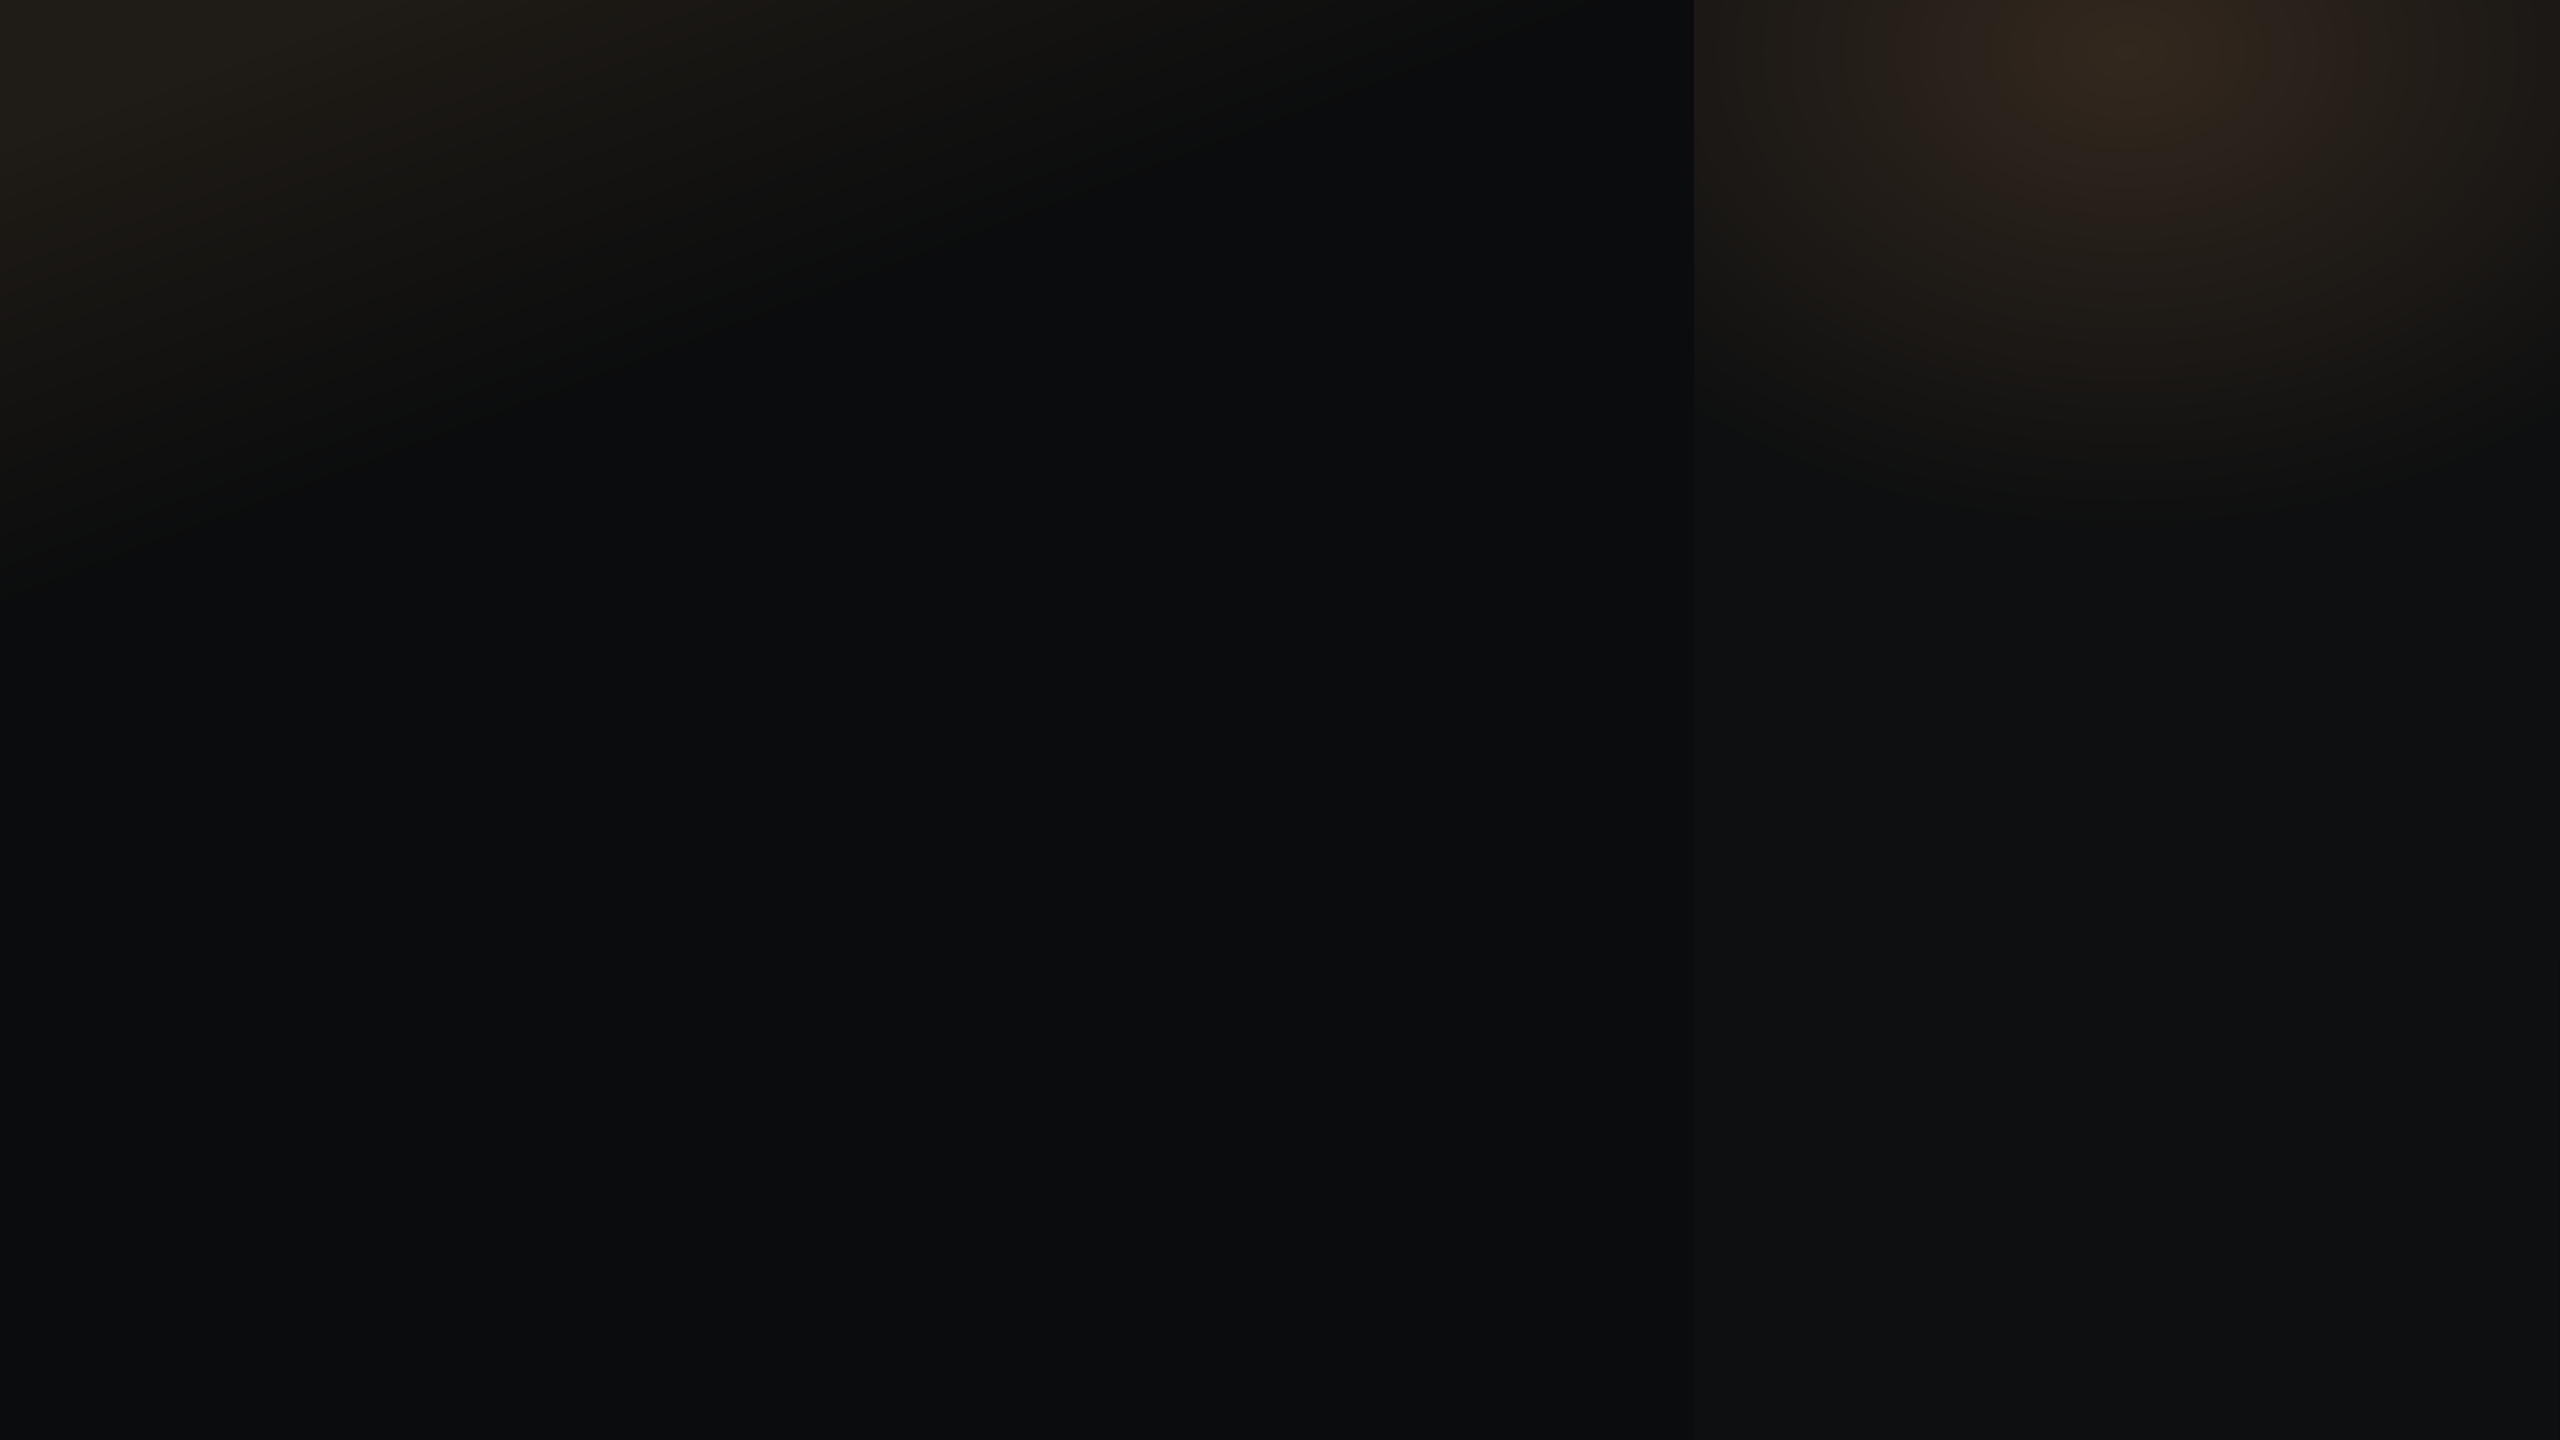
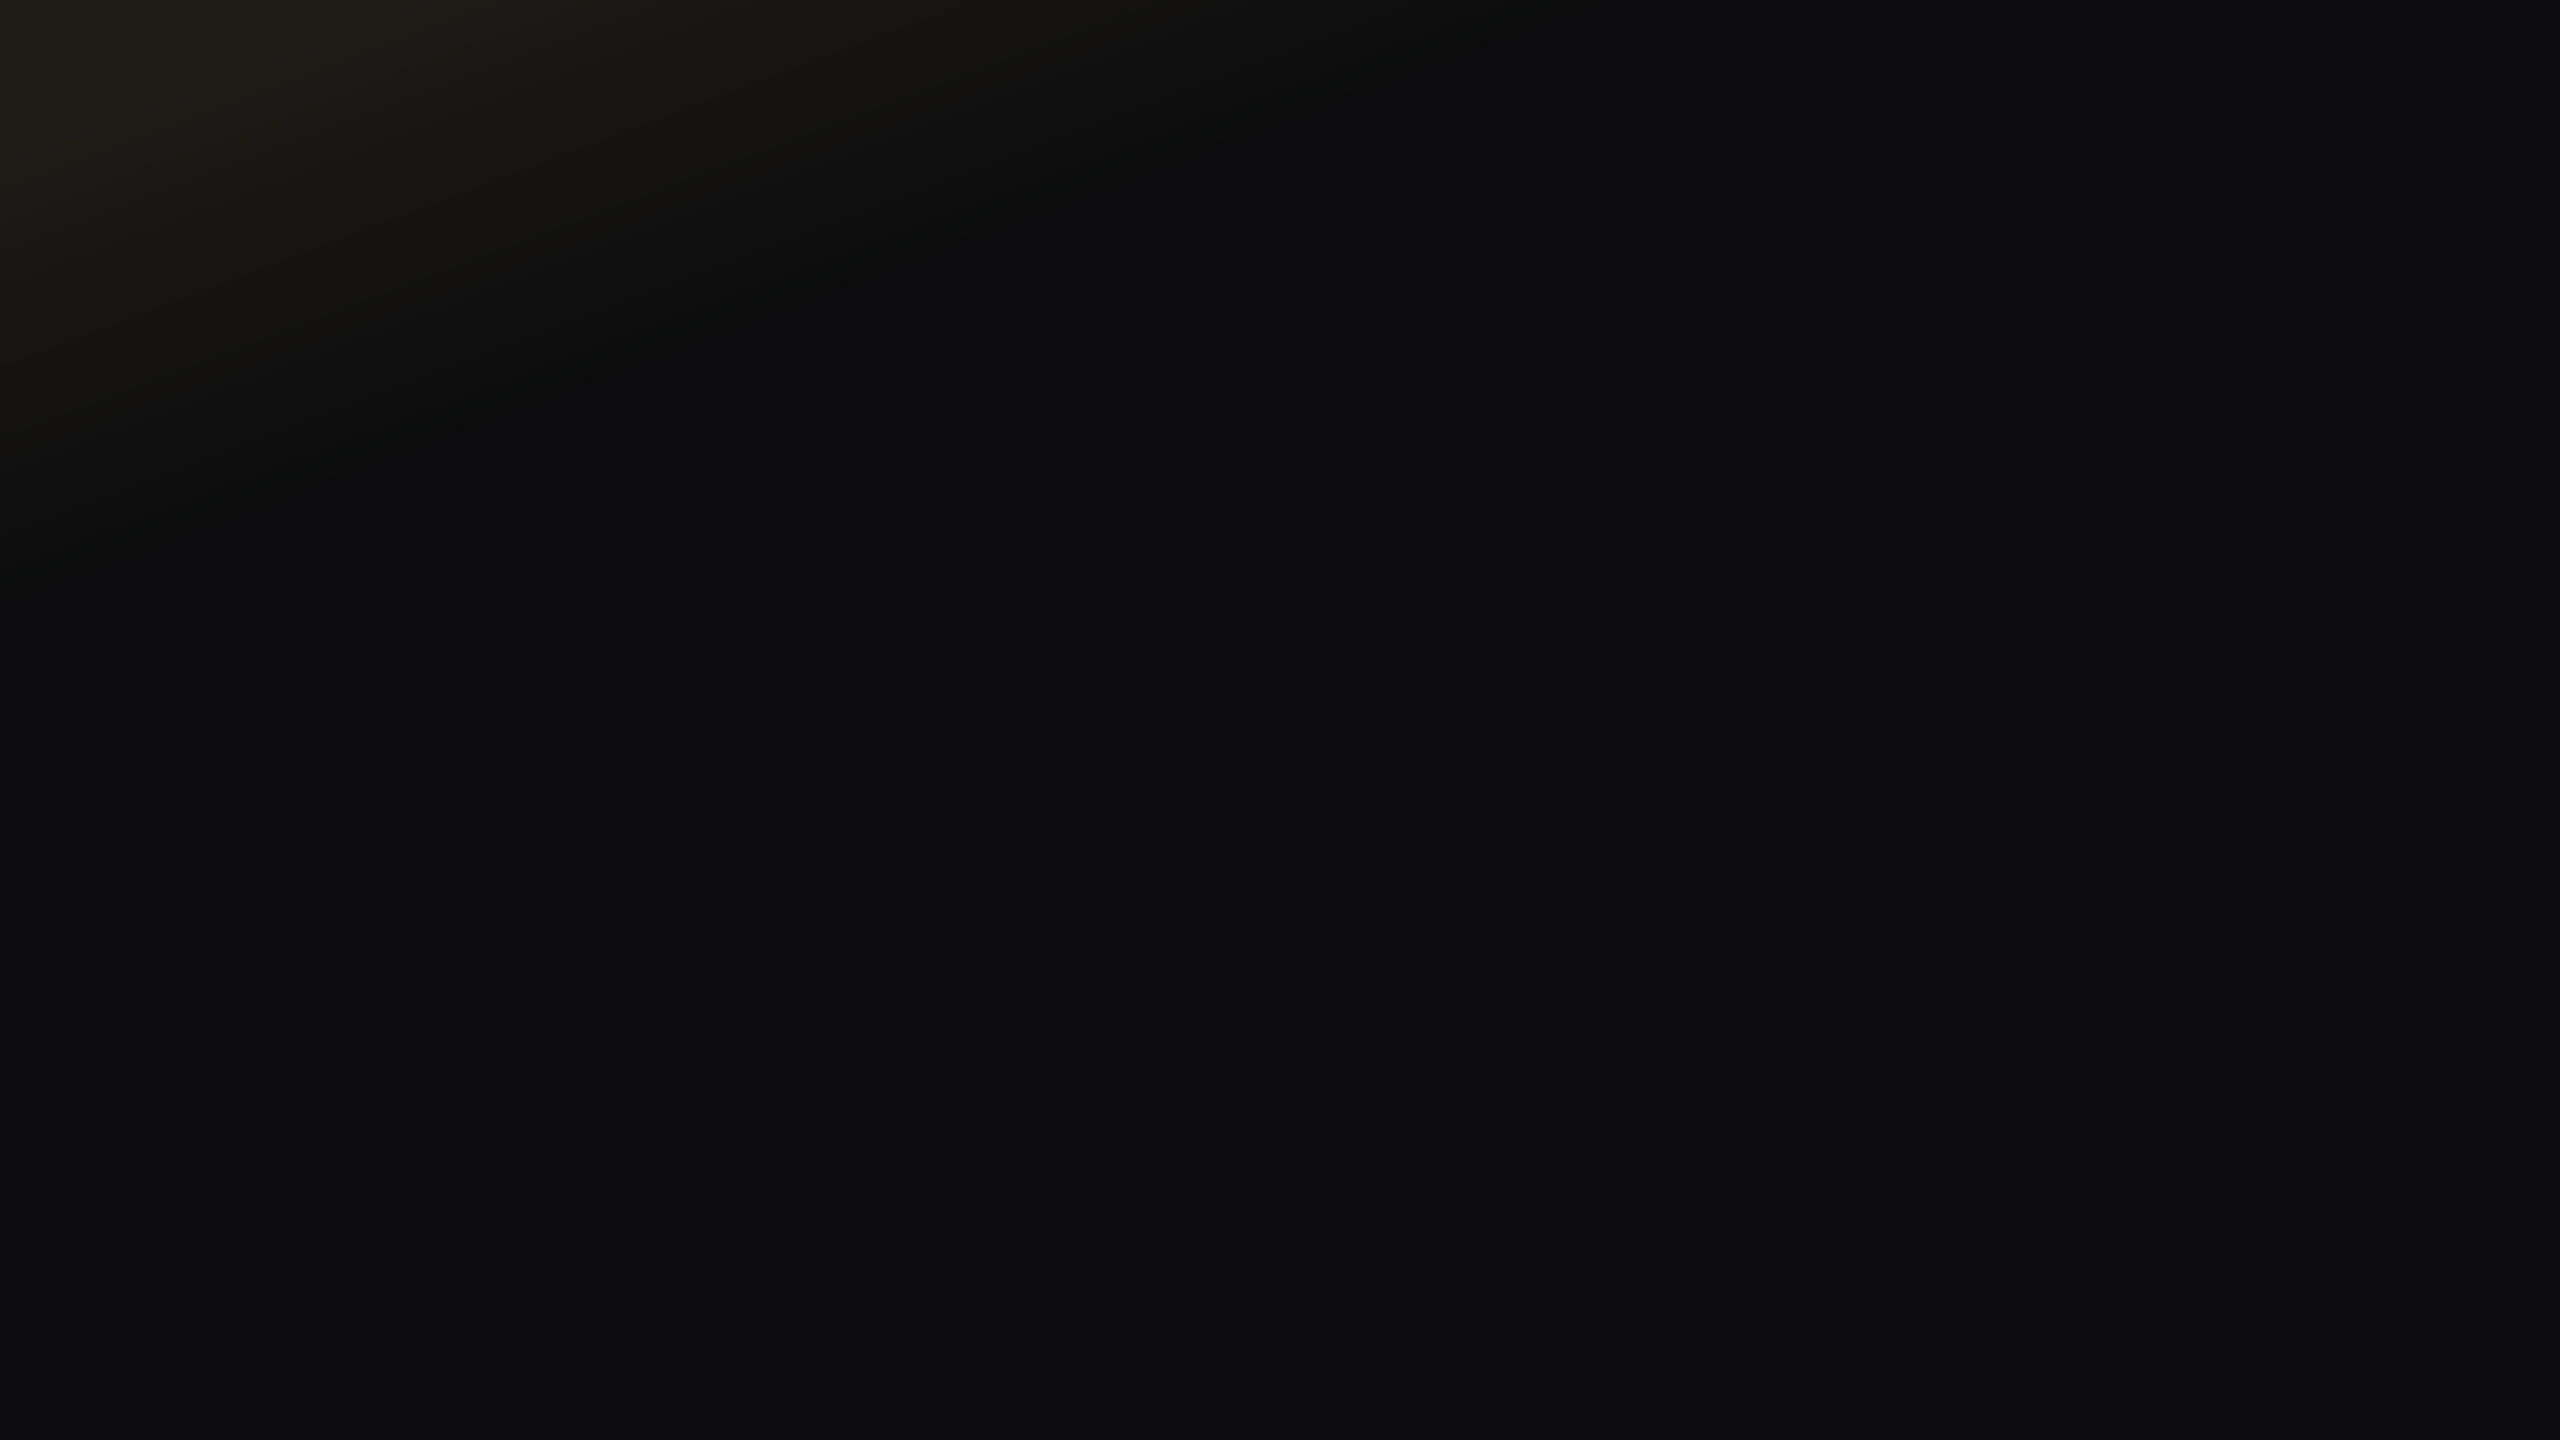
feat: 更换首屏背景图 + 案例区字重调细 + 修复上线链接为http

Changed region(s): [[0.7188, 0.0, 0.9375, 0.1875]]

diff --git a/src/styles/pages.css b/src/styles/pages.css
@@ -2006,7 +2006,7 @@
   pointer-events: auto;
 }
 .ab-case__info-title {
-  font-weight: 500;
+  font-weight: 400;
   color: #ffffff;
   white-space: nowrap;
 }
@@ -2017,7 +2017,7 @@
 }
 .ab-case__info-desc {
   color: #969599;
-  font-weight: 500;
+  font-weight: 400;
   /* 参考图 3 行文字基线间距约 37px（27px 字号）→ 行高约 1.85 */
   line-height: 1.85;
   margin: 0;
@@ -2036,7 +2036,7 @@
   border-radius: 2px;
   background: #191b1a;
   color: #979697;
-  font-weight: 500;
+  font-weight: 400;
   pointer-events: auto;
 }
 .ab-case__stats {
@@ -2053,19 +2053,19 @@
 }
 .ab-case__stat strong {
   color: #ffffff;
-  font-weight: 500;
+  font-weight: 400;
   line-height: 1;
 }
 .ab-case__stat span {
   color: #979697;
-  font-weight: 500;
+  font-weight: 400;
   line-height: 1;
   white-space: nowrap;
 }
 .ab-case__live {
   position: absolute;
   color: #d75b02;
-  font-weight: 500;
+  font-weight: 400;
   text-decoration: underline;
   text-underline-offset: 0.18em;
   white-space: nowrap;
@@ -2073,7 +2073,7 @@
 .ab-case__detail-link {
   position: absolute;
   color: #959793;
-  font-weight: 500;
+  font-weight: 400;
   text-decoration: underline;
   text-underline-offset: 0.22em;
   white-space: nowrap;

diff --git a/src/data/works.ts b/src/data/works.ts
@@ -143,7 +143,7 @@ export const works: Work[] = [
         { value: '98%', label: '视觉还原' },
         { value: '3端', label: '小程序 / 管理 / 官网' }
       ],
-      live: { text: '已上线・qiwuiot.com ↗', url: 'https://qiwuiot.com' },
+      live: { text: '已上线・qiwuiot.com ↗', url: 'http://qiwuiot.com' },
       detailText: '系统详情：大气网格・许可证・CRM 与自动化测试・可视化 →'
     },
 
